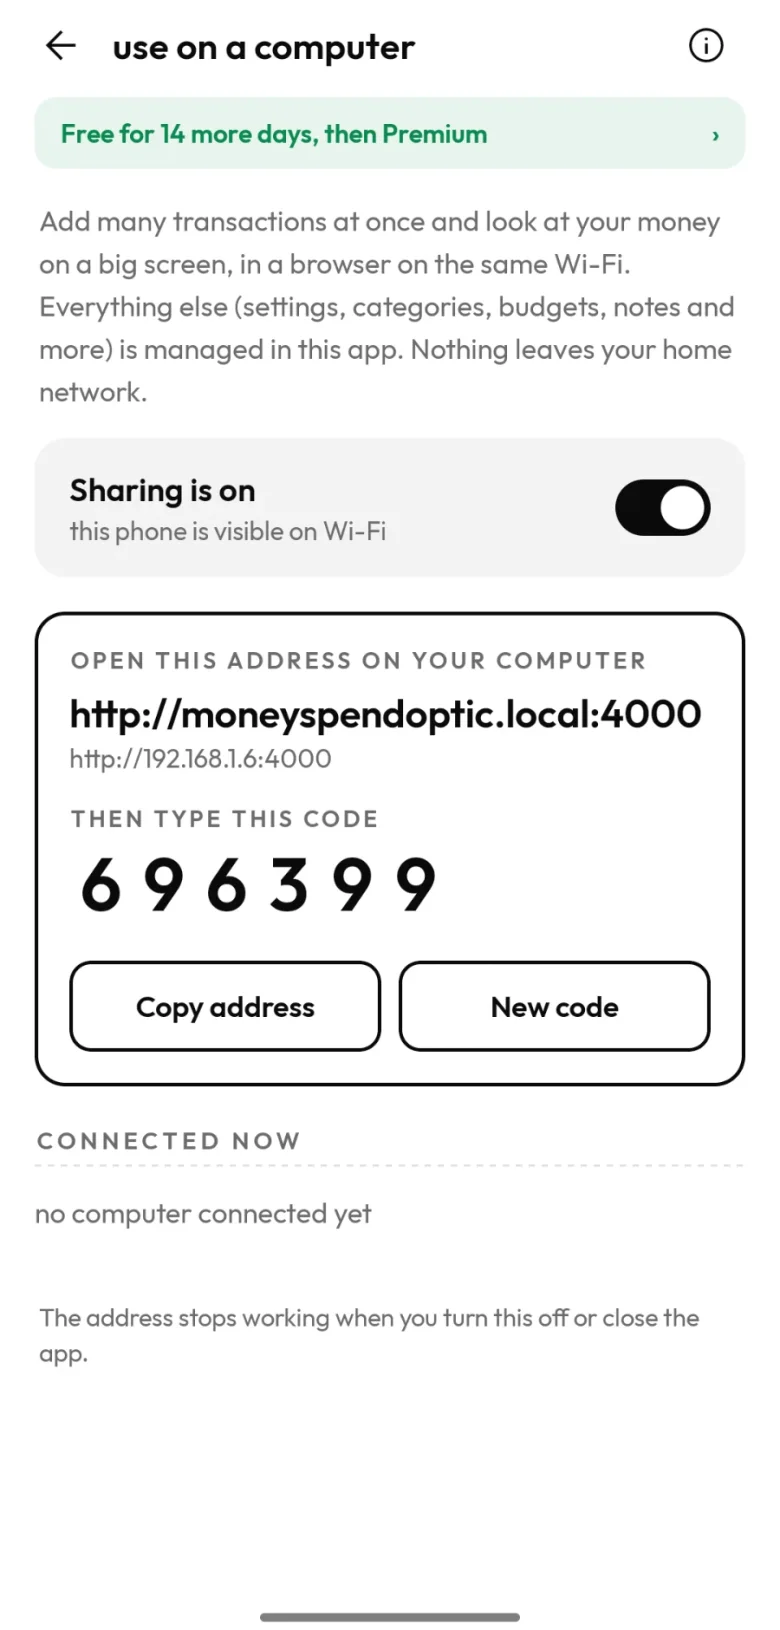
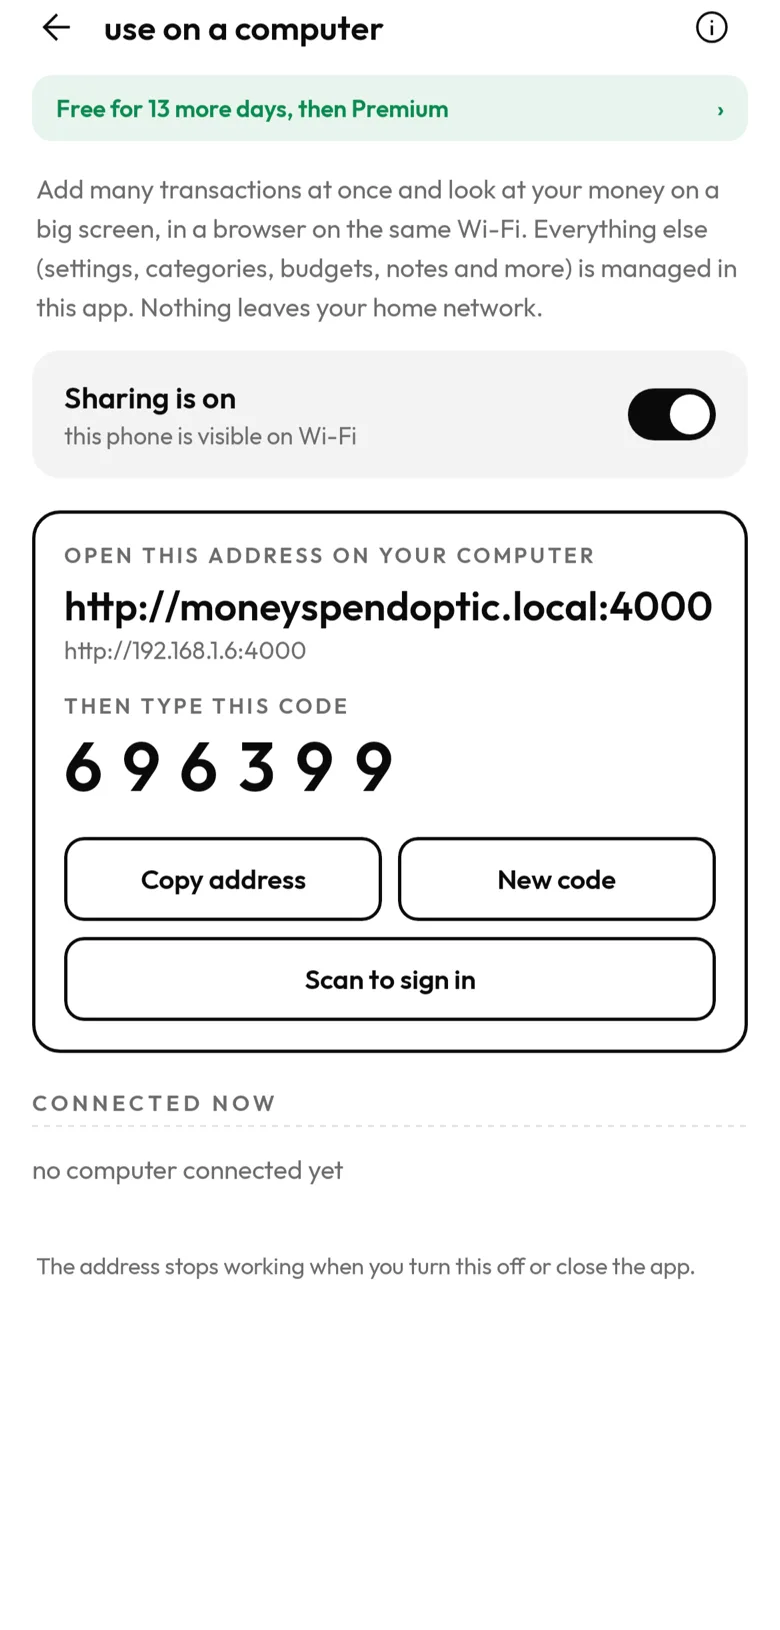
Computer view: phone picture shows the Scan to sign in button

diff --git a/index.html b/index.html
@@ -412,7 +412,7 @@ footer .data{max-width:1240px;margin:0 auto 18px;font-size:13px;line-height:1.6;
 
 <div class="demo">
 <div class="demo-phone">
-<div class="phone"><img src="screens/11-computer-phone.webp" width="260" height="564" alt="Use on a computer screen in the app, sharing on, code 696399" loading="lazy"></div>
+<div class="phone"><img src="screens/11-computer-phone.webp" width="260" height="564" alt="Use on a computer screen in the app, sharing on, code 696399, with a Scan to sign in button" loading="lazy"></div>
 <span class="cap">On your phone · More › Use on a computer</span>
 </div>
 <div class="link" aria-hidden="true"><i></i><span>same<br> Wi-Fi</span></div>
